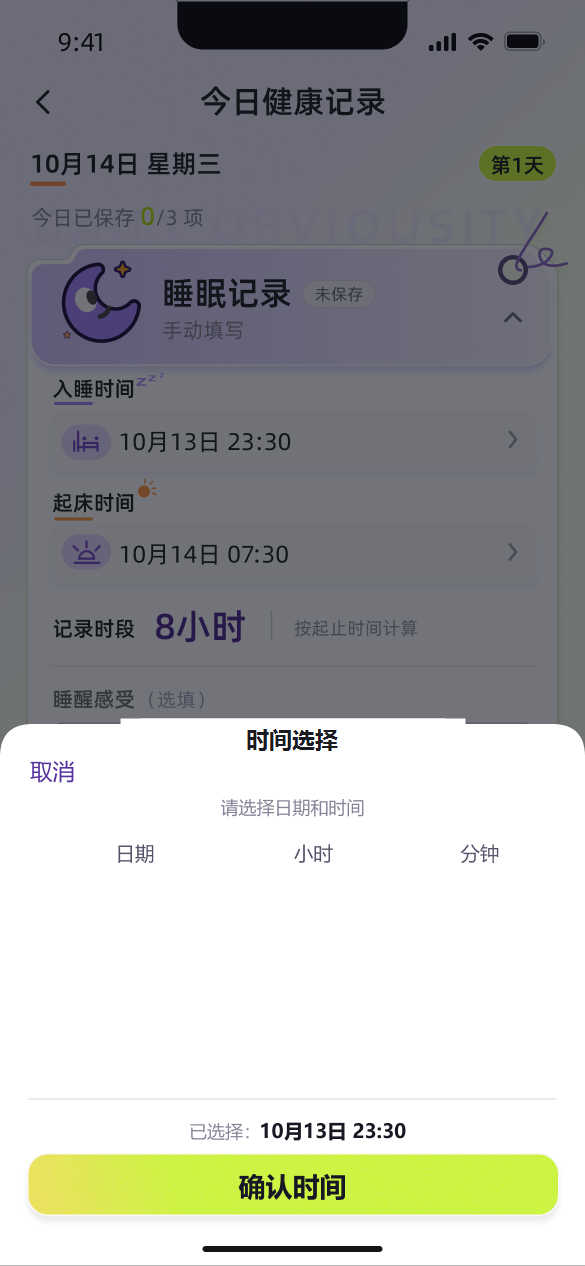
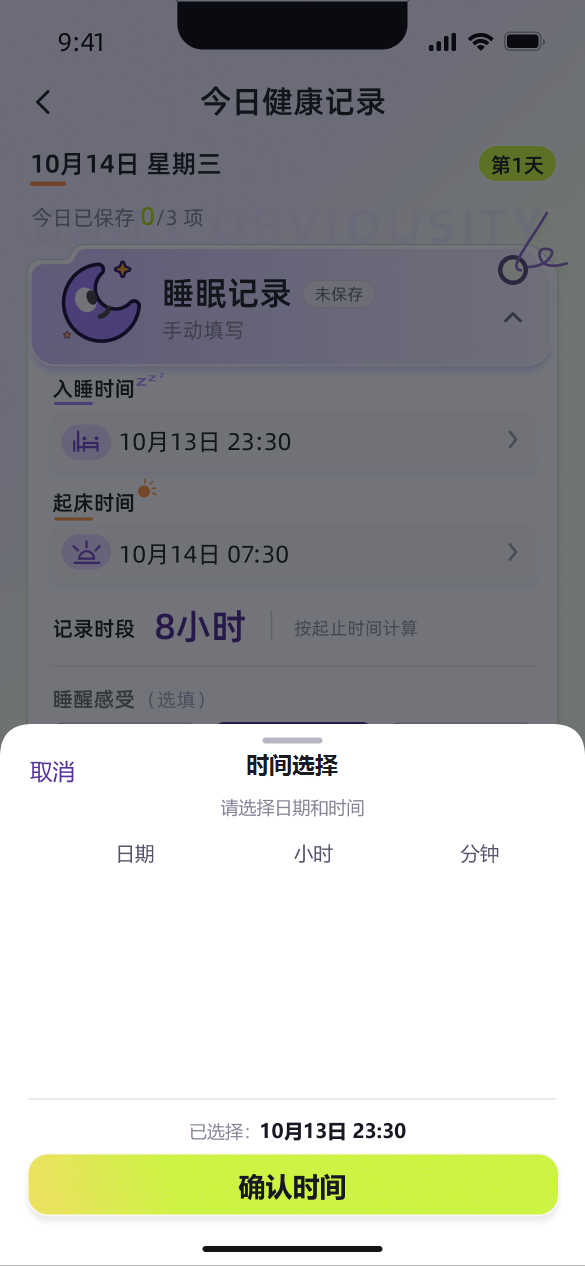
Keep 时间选择 title inside the sheet and enlarge sleep time hotspots.

Changed region(s): [[0.2154, 0.5545, 0.8, 0.6161]]

diff --git a/health-app.html b/health-app.html
@@ -8,7 +8,7 @@
   <link rel="preconnect" href="https://fonts.googleapis.com" />
   <link rel="preconnect" href="https://fonts.gstatic.com" crossorigin />
   <link href="https://fonts.googleapis.com/css2?family=Source+Sans+3:ital,wght@0,400;0,500;0,600;0,700;1,600;1,700&family=Noto+Sans+SC:wght@400;500;600;700&display=swap" rel="stylesheet" />
-  <link rel="stylesheet" href="assets/portfolio.css?v=20261103j" />
+  <link rel="stylesheet" href="assets/portfolio.css?v=20261103k" />
 </head>
 <body class="tone-health">
   <div class="pf-top"><div class="pf-jump" aria-label="作品直达">
@@ -49,7 +49,7 @@
       </div>
     </div>
     <figure class="case-cover reveal reveal-delay-1">
-      <img src="assets/works/health/cover.jpg?v=20261103j" alt="健康伙伴 · 作品集扉页" />
+      <img src="assets/works/health/cover.jpg?v=20261103k" alt="健康伙伴 · 作品集扉页" />
     </figure>
   </header>
 
@@ -98,13 +98,13 @@
   <p class="case-note reveal">下列为作品集叙事页（非原型照搬），用于说明场景与设计判断；上方演示才是 Figma 高保真原型路径。</p>
 
   <section class="case-gallery" id="gallery">
-    <figure><img src="assets/works/health/cover.jpg?v=20261103j" alt="健康伙伴扉页" loading="lazy" /><figcaption>作品集扉页</figcaption></figure>
-    <figure><img src="assets/works/health/p01.jpg?v=20261103j" alt="健康伙伴第二页" loading="lazy" /><figcaption>01 · 说明与任务流</figcaption></figure>
-    <figure><img src="assets/works/health/p02.jpg?v=20261103j" alt="健康伙伴第三页" loading="lazy" /><figcaption>02 · 首页路径与反馈</figcaption></figure>
-    <figure><img src="assets/works/health/p03.jpg?v=20261103j" alt="健康伙伴第四页" loading="lazy" /><figcaption>03 · 录入方式</figcaption></figure>
-    <figure><img src="assets/works/health/p04.jpg?v=20261103j" alt="健康伙伴第五页" loading="lazy" /><figcaption>04 · 记录细节</figcaption></figure>
-    <figure><img src="assets/works/health/p05.jpg?v=20261103j" alt="健康伙伴第六页" loading="lazy" /><figcaption>05 · 画像与提醒</figcaption></figure>
-    <figure><img src="assets/works/health/p06.jpg?v=20261103j" alt="健康伙伴第七页" loading="lazy" /><figcaption>06 · 总结</figcaption></figure>
+    <figure><img src="assets/works/health/cover.jpg?v=20261103k" alt="健康伙伴扉页" loading="lazy" /><figcaption>作品集扉页</figcaption></figure>
+    <figure><img src="assets/works/health/p01.jpg?v=20261103k" alt="健康伙伴第二页" loading="lazy" /><figcaption>01 · 说明与任务流</figcaption></figure>
+    <figure><img src="assets/works/health/p02.jpg?v=20261103k" alt="健康伙伴第三页" loading="lazy" /><figcaption>02 · 首页路径与反馈</figcaption></figure>
+    <figure><img src="assets/works/health/p03.jpg?v=20261103k" alt="健康伙伴第四页" loading="lazy" /><figcaption>03 · 录入方式</figcaption></figure>
+    <figure><img src="assets/works/health/p04.jpg?v=20261103k" alt="健康伙伴第五页" loading="lazy" /><figcaption>04 · 记录细节</figcaption></figure>
+    <figure><img src="assets/works/health/p05.jpg?v=20261103k" alt="健康伙伴第六页" loading="lazy" /><figcaption>05 · 画像与提醒</figcaption></figure>
+    <figure><img src="assets/works/health/p06.jpg?v=20261103k" alt="健康伙伴第七页" loading="lazy" /><figcaption>06 · 总结</figcaption></figure>
   </section>
 
   <section class="related">
@@ -123,6 +123,6 @@
   </footer>
 
   <script src="assets/portfolio.js"></script>
-  <script src="assets/health-proto.js?v=20261103j"></script>
+  <script src="assets/health-proto.js?v=20261103k"></script>
 </body>
 </html>

diff --git a/assets/portfolio.css b/assets/portfolio.css
@@ -574,8 +574,8 @@ body.tone-b .btn.primary:hover { background: #1558c7; }
 .hs-hp-tab-portrait { left: 38%; width: 24%; top: 91%; height: 7%; }
 .hs-hp-tab-mine { left: 68%; width: 24%; top: 91%; height: 7%; }
 
-.hs-hp-sleep-bedtime { left: 5%; right: 5%; top: 31.8%; height: 5.2%; border-radius: 14px; }
-.hs-hp-sleep-wake { left: 5%; right: 5%; top: 38.8%; height: 5.2%; border-radius: 14px; }
+.hs-hp-sleep-bedtime { left: 5%; right: 5%; top: 29.8%; height: 6.4%; border-radius: 14px; }
+.hs-hp-sleep-wake { left: 5%; right: 5%; top: 38.2%; height: 6.4%; border-radius: 14px; }
 .hs-hp-sleep-feel1 { left: 8%; width: 27%; top: 48.5%; height: 6%; border-radius: 999px; }
 .hs-hp-sleep-feel2 { left: 36.5%; width: 27%; top: 48.5%; height: 6%; border-radius: 999px; }
 .hs-hp-sleep-feel3 { left: 65%; width: 27%; top: 48.5%; height: 6%; border-radius: 999px; }
